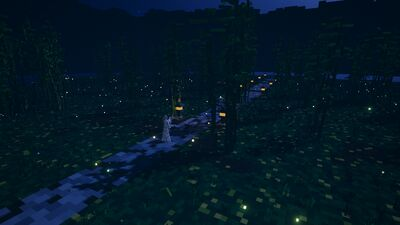
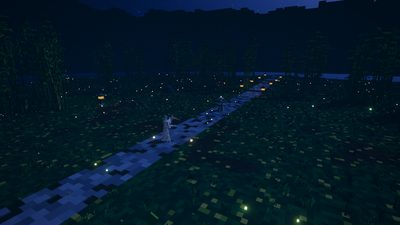
Clear the bamboo out of the Moonlit Grove arena
The stalks scattered across the floor (and the two lanterns in the
middle) kept pulling the duel camera in front of them. The fighting floor
is now an open clearing; the bamboo forest stands beyond the wall, and
the lanterns and boulders sit at the edge.

Claude-Session: https://claude.ai/code/session_01CPXACaFC7jvSSPM971W4MJ

diff --git a/src/shared/maps.ts b/src/shared/maps.ts
@@ -320,25 +320,11 @@ const sakura: MapDef = {
   },
 };
 
-const bambooProps: Prop[] = (() => {
-  const rand = seededRandom(42);
-  const out: Prop[] = [];
-  let tries = 0;
-  while (out.length < 11 && tries++ < 500) {
-    const x = (rand() * 2 - 1) * 13.5;
-    const z = (rand() * 2 - 1) * 13.5;
-    if (Math.abs(x) < 2.5 && Math.abs(z) < 12) continue; // keep the spawn lane open
-    if (out.some((p) => Math.hypot(p.x - x, p.z - z) < 5)) continue;
-    out.push({ kind: 'bamboo', x, z, s: 0.9 + rand() * 0.4, rot: rand() * PI * 2, solid: true });
-  }
-  return out;
-})();
-
 const bamboo: MapDef = {
   id: 'bamboo',
   name: 'Moonlit Grove',
   jp: '月下竹林',
-  description: 'Dense bamboo under a full moon. Use the stalks to break line and reset.',
+  description: 'A moonlit clearing walled in by dense bamboo. Nothing stands between you.',
   kind: 'arena',
   floor: [{ type: 'rect', x: 0, z: 0, hw: 17, hd: 17 }],
   edge: 'wall',
@@ -346,12 +332,13 @@ const bamboo: MapDef = {
     { x: 0, z: -10, yaw: 0 },
     { x: 0, z: 10, yaw: PI },
   ],
+  // the floor is a clear clearing (stalks in the ring kept stealing the camera); the forest stands
+  // beyond the wall, and only lanterns and two boulders mark the edge
   props: [
-    ...bambooProps,
-    { kind: 'lantern', x: 2.5, z: 0, solid: true },
-    { kind: 'lantern', x: -2.5, z: 0, solid: true },
-    { kind: 'rock', x: 12, z: 12, s: 1.4, solid: true },
-    { kind: 'rock', x: -12.5, z: -11, s: 1.2, solid: true },
+    { kind: 'lantern', x: 15.5, z: 0, solid: true },
+    { kind: 'lantern', x: -15.5, z: 0, solid: true },
+    { kind: 'rock', x: 15, z: 15, s: 1.4, solid: true },
+    { kind: 'rock', x: -15, z: -14.5, s: 1.2, solid: true },
   ],
   decals: [{ shape: { type: 'rect', x: 0, z: 0, hw: 1.6, hd: 17 }, tex: 'stone' }],
   hazards: [],

diff --git a/README.md b/README.md
@@ -140,7 +140,7 @@ You can switch characters in the lobby safe zone (press **C**).
 **Arenas:**
 
 1. **Sakura Courtyard**: walled temple courtyard; lanterns and trees break sightlines.
-2. **Moonlit Grove**: night-time bamboo forest full of cover.
+2. **Moonlit Grove**: a night-time clearing walled in by bamboo, open floor.
 3. **Frozen Summit**: mountaintop with no walls; fall off and you lose the round.
 4. **Molten Forge**: lava pools in the corners burn you.
 5. **Sky Bridge**: a narrow bridge over the clouds with a central platform; ring-outs are deadly.
